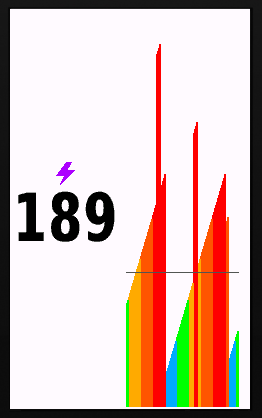
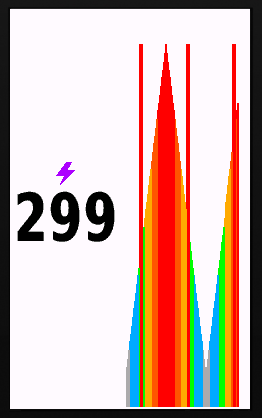
README: three live-data screenshots (Power/HR/Cadence), credit Rob Burke
Regenerated screenshots from the current build (no reference line); added HR and
Cadence alongside Power; removed the now-gone reference-line mentions from the
feature list.

Changed region(s): [[0.458, 0.0933, 0.916, 0.9952], [0.0611, 0.4354, 0.3053, 0.5909]]

diff --git a/README.md b/README.md
@@ -4,9 +4,11 @@ Three Connect IQ data fields, **Power**, **Cadence**, and **Heart Rate**, that b
 
 > Made for Edge 1000 owners who want the kind of graph dashboards the newer Edge units (1040/1050) have, and **especially for anyone whose eyes aren't what they used to be.** Big numbers, clear colours, glance and go.
 
-![Varia-Safe Power field with live data](docs/screenshot-power.png)
+| Power | Heart Rate | Cadence |
+|:---:|:---:|:---:|
+| ![Power](docs/screenshot-power.png) | ![Heart Rate](docs/screenshot-hr.png) | ![Cadence](docs/screenshot-cadence.png) |
 
-*Power field: big number + small icon on the left, live zone-coloured graph filling the right, with a faint FTP reference line.*
+*The three fields with live (simulated) data: small metric icon + big number on the left, colour-coded auto-scaling graph on the right.*
 
 ## Why this exists
 
@@ -19,10 +21,10 @@ These fields fix both problems: a **big number on the left** (always readable, w
 - **Big auto-sized number** in the device's largest font, with a small metric icon stacked above it (lightning / heart / rotation ring).
 - **Live rolling graph** that **auto-scales** to your recent data so the variation always fills the height, smoothed so the axis glides instead of jittering.
 - **Zone colours that carry the meaning**, so the floating graph stays honest:
-  - **Power** — Coggan-style zones by % FTP, with a faint **FTP reference line**.
-  - **Heart Rate** — your **actual device HR zones**, read from your Garmin profile and auto-updating, with a **threshold reference line**.
+  - **Power** — Coggan-style zones by % FTP.
+  - **Heart Rate** — your **actual device HR zones**, read from your Garmin profile and auto-updating.
   - **Cadence** — a configurable **target band** (default green 85-100 rpm) to encourage a smooth, higher spin; fully tunable and switchable to plain grey.
-- **Varia-safe layout**: numbers stay on the left; a small right margin (default 10px) is kept clear for the radar bar. If a reference line is off the current scale, a tiny arrow points toward it.
+- **Varia-safe layout**: numbers stay on the left; a small right margin (default 10px) is kept clear for the radar bar.
 
 ## Compatibility
 
@@ -71,7 +73,7 @@ Eject, unplug, then assign each to a **1- or 2-field data screen → Connect IQ*
 
 ## How it was made
 
-Built collaboratively (a human and Claude Code) over a couple of evenings, from "my hand-me-down Edge 1000 is hard to read on the road" to a compiled, sideloaded, three-field graph suite. The data-visualization choices, dynamic autoscale with zone colour, the sparkline-style layout, the cadence target band, lean on Edward Tufte's principles and a bit of cycling-coaching research.
+Built collaboratively by **Rob Burke** and Claude Code over a couple of evenings, from "my hand-me-down Edge 1000 is hard to read on the road" to a compiled, sideloaded, three-field graph suite. The data-visualization choices, dynamic autoscale with zone colour, the sparkline-style layout, the cadence target band, lean on Edward Tufte's principles and a bit of cycling-coaching research.
 
 ## License
 